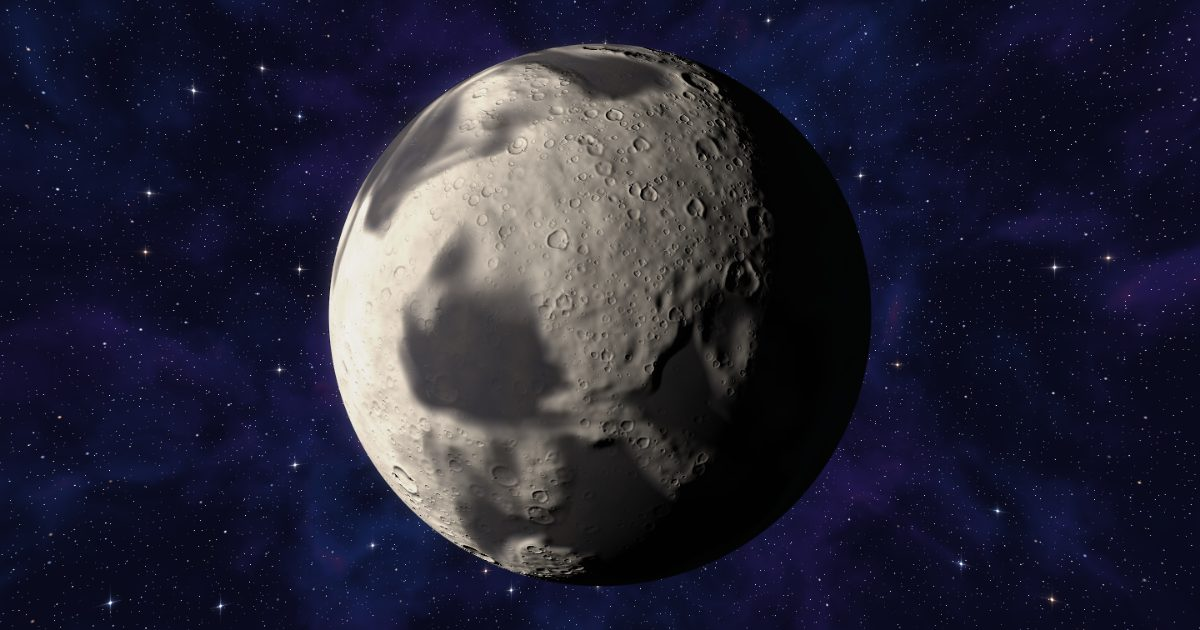
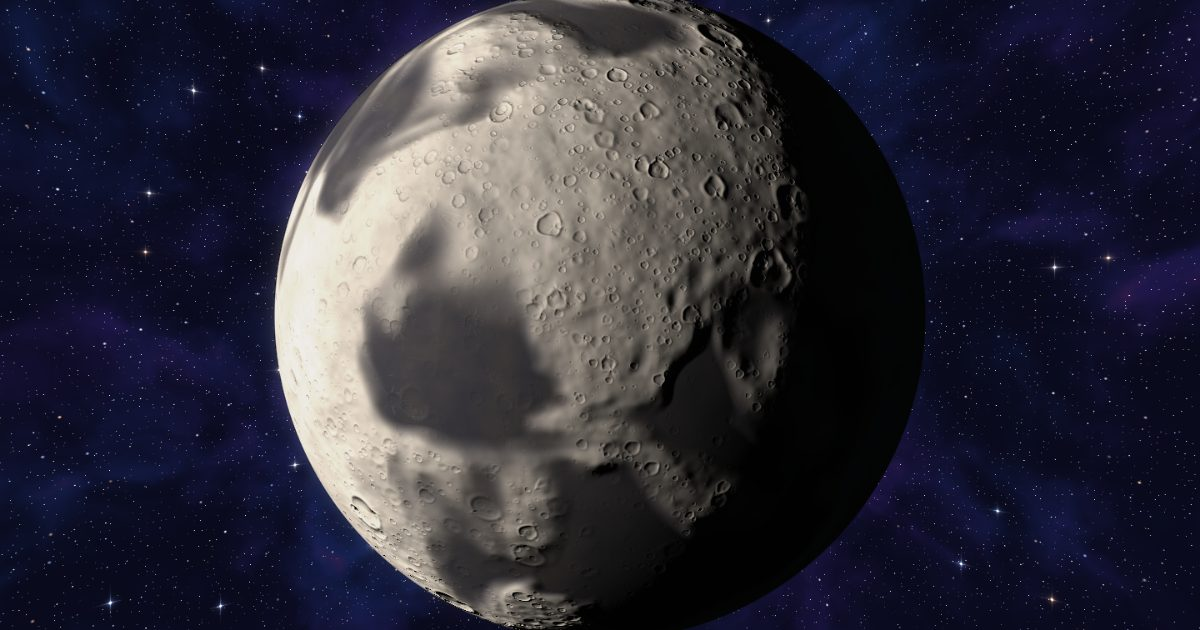
💄 style: Frame Its Moon closer and give An Asteroid a city-sized line

Changed region(s): [[0.2158, 0.0, 0.7708, 1.0]]

diff --git a/src/content/places.ts b/src/content/places.ts
@@ -184,12 +184,20 @@ export const SOURCES: readonly Source[] = [
     checked: "2026-11-22",
   },
   {
-    id: "nasa-asteroid-facts",
-    title: "Asteroid Facts",
-    publisher: "NASA Science",
-    url: "https://science.nasa.gov/solar-system/asteroids/facts/",
-    checked: "2026-11-22",
+    id: "nasa-neo-observations",
+    title: "Near-Earth Object Observations Program",
+    publisher: "NASA",
+    url: "https://www.nasa.gov/solar-system/near-earth-object-observations-program/",
+    checked: "2026-11-24",
   },
+  {
+    id: "nasa-meteor-crater",
+    title: "Arizona's Meteor Crater",
+    publisher: "NASA Earth Observatory",
+    url: "https://science.nasa.gov/earth/earth-observatory/arizonas-meteor-crater-148384/",
+    checked: "2026-11-24",
+  },
+
   {
     id: "nasa-habitable-zone",
     title: "The Habitable Zone",
@@ -810,9 +818,11 @@ export const PLACES: readonly Place[] = [
     // D-133: tumbling past the moon; since D-194 beside it, in the blue world's scene
     id: "asteroid",
     name: "An Asteroid",
-    // the source: Chicxulub, "causing the extinction of more than 70% of the living species on the planet, including the dinosaurs"
-    line: "One struck Earth and ended over 70% of its species, dinosaurs included.",
-    sources: ["nasa-asteroid-facts"],
+    // D-195, the owner's wording. The sources: Meteor Crater's asteroid was "likely in the range of 100 to 170 feet
+    // (30 to 50 meters) across", and "A similar-size impact event today could destroy a city the size of Kansas City";
+    // NASA calls 140 meters "larger than a small football stadium", so 30 to 50 meters is smaller than one
+    line: "One smaller than a football stadium could wipe out a whole city.",
+    sources: ["nasa-meteor-crater", "nasa-neo-observations"],
     anchor: "asteroid",
     stop: 1,
     inside: "blue-world",

diff --git a/src/scene/scenes/moon/index.tsx b/src/scene/scenes/moon/index.tsx
@@ -149,7 +149,8 @@ void main(){
 
 const CONFIG: OrbConfig = {
   fragment: FRAGMENT,
-  framing: (width, height) => Math.min(height * 0.25, width * 0.17),
+  // closer than the planet it circles (D-195): about three fifths of a laptop's height across
+  framing: (width, height) => Math.min(height * 0.3, width * 0.2),
   close: 1.45,
   arriveFrom: 0.3,
   detail: { low: 0, medium: 0, high: 1 },

diff --git a/context/DECISIONS.md b/context/DECISIONS.md
@@ -291,3 +291,4 @@ The owner clicked through S1: "Much better", then asked for the changes below, w
 | D-192 | **Programmable Matter faster, a way into Pocket Dimensions, a dark Dark Matter Web (owner, 2026-11-24).** (1) **Programmable Matter** holds each form for 6 s (was 14), each change about 3 s, and turns at 0.12 rad/s (was 0.05). (2) **The Pocket Universe** (`/pocket-universe`), a new place inside Pocket Dimensions: the bulb is a body (inner anchor `babyverse`) dived into. Inside, everything rushes outward from a gold heart, emerald threads of gas and young gold and white galaxies drawn out the way they fly, four layers of the pattern swelling sixteen-fold and handing over, so the inflation never ends. Line: "Once cut off from ours, it would inflate into a self-contained cosmos.", from the same arXiv paper (regions "which causally disconnect from us and inflate, becoming self-contained cosmoses", section 1; "the baby universe creating its own space, and causally disconnecting from the parent spacetime", section 4; read 2026-11-24). No loop of its own yet: it plays Pocket Dimensions'. The Pocket Dimensions scene itself is unchanged. (3) **The Dark Matter Web** keeps its place at the web but is redrawn: nearly black; a faint field of far galaxies whose light is bent into thin arcs round five unseen clumps (each clump's pull worked out per pixel); gold galaxies gathered round the clumps and thinly along the strands, a brighter oval at each heart; the dark matter itself only a faint deep-indigo ghost round the clumps and strands that slowly swells and fades. Colour family: near black, deep indigo and gold (was ghost teal). | The owner: "make programmable matter rotate faster between its states"; Pocket Dimensions "looks like wormhole which I guess is fine if it lead to the actual pocket dimension"; the dark matter scene "doesn't feel black", relocating allowed. | Redrawing the bulb (the owner was fine with it as a way in); moving Dark Matter into the spiral galaxy as its halo (the web is where it holds things together; the scene, not its place, was the problem); glowing filaments (they made it read bright). |
 | D-193 | **The Dark Matter Web moves; The Pocket Universe shares its music (owner, 2026-11-24).** (1) In each of the five clumps, 36 gold galaxies orbit its heart, each a small oval lying along its orbit, the inner ones faster (speed falls as one over the square root of the radius), neighbouring clumps turning opposite ways; each clump's brightest galaxy turns slowly; the indigo ghost round each clump turns with it; the far galaxies drift behind, so their bent arcs slide and flow round the clumps. Galaxies are placed per clump in polar terms, not on a grid, so nothing smears as it turns. (2) The Pocket Universe keeps the Pocket Dimensions loop for good; it needs no loop of its own. | The owner: "could you add movement to the dark matter objects, maybe some spin"; "the pocket universe can share the same music as the pocket dimension". | Turning the whole grid of galaxies round each clump (inner and outer rings at different speeds shear a grid into streaks). |
 | D-194 | **An Asteroid beside the Moon, not inside it (owner, 2026-11-24).** An Asteroid is now inside A Blue World (was inside Its Moon, D-133): the same tumbling rock, drawn in the planet's scene at the upper left (about 1.55 radii left of the planet, 0.7 up), opposite the moon at the upper right, lit by the same sun; it is the scene's second body and hotspot. The Moon's scene no longer draws it. Zoom Out from the Asteroid goes back to A Blue World. | The owner: "you can put the asteroid and moon on the same level". | Moving both into the Solar System's scene (the owner asked only that they share a level). |
+| D-195 | **A closer Moon, and a city-sized threat (owner, 2026-11-24).** (1) Its Moon is framed at min(0.3 × height, 0.2 × width) per radius (was 0.25 and 0.17), so it fills about three fifths of a laptop's height; larger touched the header. (2) An Asteroid's line, in the owner's words made true: "One smaller than a football stadium could wipe out a whole city." The Meteor Crater asteroid was "likely in the range of 100 to 170 feet (30 to 50 meters) across" and "A similar-size impact event today could destroy a city the size of Kansas City" (NASA Earth Observatory, "Arizona's Meteor Crater"); NASA calls 140 meters "larger than a small football stadium" (Near-Earth Object Observations Program); both checked 2026-11-24. The Chicxulub line and its source, NASA's "Asteroid Facts", are retired. | The owner: "the moon looks a little zoomed out"; the asteroid line should say "an asteroid the size of a football stadium can easily wipe out a city". | "The size of a football stadium … easily" as asked (no source says a stadium-sized rock, or "easily"; a smaller rock destroying a city is sourced and makes the same point). |

diff --git a/context/PROGRESS_TRACKER.md b/context/PROGRESS_TRACKER.md
@@ -84,6 +84,7 @@ Limits: draw calls on `low` under 30, scene chunks under 40 KB. Tests that need 
 - **2026-11-24 (scene refinement), D-192:** Programmable Matter changes shape every 6 s (was 14) and turns faster; Pocket Dimensions' bulb now leads into a new place, The Pocket Universe (an endlessly inflating emerald and gold cosmos, sourced to the same arXiv paper; it plays the Pocket Dimensions loop until it has its own); The Dark Matter Web redrawn nearly black, the dark matter seen only by far galaxies' light bent into arcs round unseen clumps and a faint indigo ghost. 51 places. **Checked:** `npm run check`, `npm run build`, `npm run shots` for the four routes (laptop, phone, reduced motion), posters and share images rendered. The owner chose to keep The Pocket Universe on the Pocket Dimensions loop (D-193).
 - **2026-11-24 (scene refinement), D-193:** The Dark Matter Web moves: each clump's gold galaxies orbit its heart (inner ones faster, neighbours turning opposite ways), the brightest galaxy and the indigo ghost turn, and the far galaxies drift so their arcs slide round the clumps. **Checked:** `npm run build`, `npm run shots -- dark-matter`, two frames 30 s apart compared, poster and share image re-rendered.
 - **2026-11-24 (scene refinement), D-194:** An Asteroid moved up a level: it tumbles past A Blue World on the left, opposite Its Moon, instead of past the Moon. **Checked:** `npm run check`, `npm run build`, `npm run shots` for the three routes, the built pages' links (A Blue World links to both; An Asteroid's Zoom Out goes to A Blue World; the Moon no longer links to it), posters re-rendered.
+- **2026-11-24 (scene refinement), D-195:** Its Moon framed closer (about three fifths of a laptop's height across); An Asteroid's line is now "One smaller than a football stadium could wipe out a whole city." (NASA Earth Observatory's Meteor Crater, NASA's Near-Earth Object Observations Program). **Checked:** `npm run check`, `npm run build`, `npm run shots` for both, posters re-rendered.
 - **2026-11-24 (new place, probes), D-189:** The Last Civilization (a hibernating civilization round a dim white dwarf, in A Quasar Galaxy, with its own loop) and a redrawn Von Neumann Probes (a binary tree of self-copying probes eating a belt). 46 places. **Checked:** `npm run check`, `npm run build`, stills of both (awake and asleep; mid-tree and leaving) on laptop and phone, the new hotspot's place in the Quasar Galaxy, posters and share images rendered.
 - **2026-11-24 (small fixes), D-188:** Larger play icon; a drag turns every universe in the Multiverse; glass tooltips (`data-tip`) on the video and Sound buttons; the web and supervoid swap music. **Checked:** `npm run check`; live in Chrome: the Multiverse before and after a drag, both tooltips on hover.
 - **2026-11-24 (the ending), D-187:** Zoom Out past the Omniverse is now a cinematic ending: fade to black, the two lines rise out of a blur one after the other, then Return. The music key is read under `Music` or `MUSIC_KEY`. **Checked:** `npm run check`; live in Chrome: the ending at several moments, Return closes it, the Omniverse loop loads with the key under `MUSIC_KEY`.
